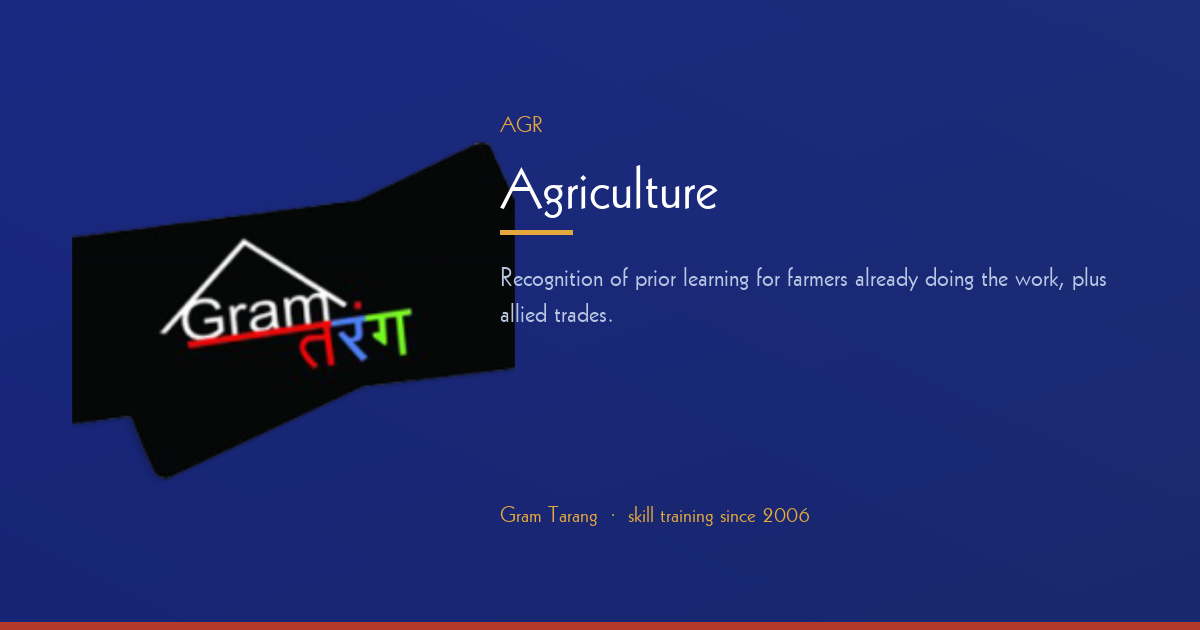
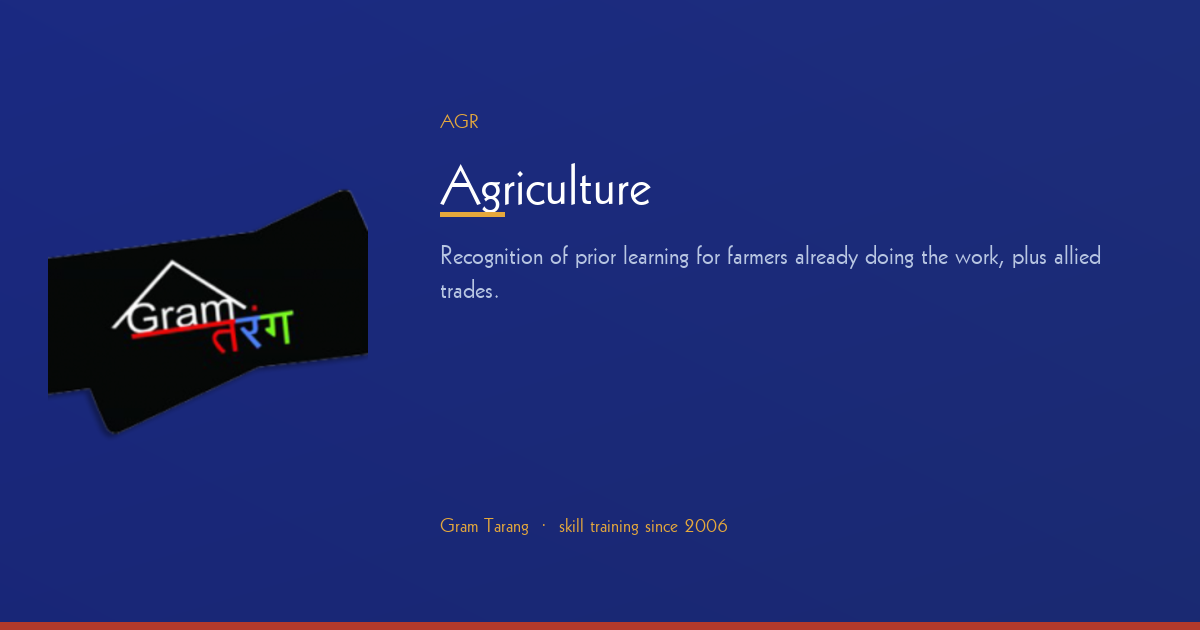
fix

Changed region(s): [[0.0308, 0.181, 0.925, 0.7841], [0.37, 0.8143, 0.6783, 0.8444]]

diff --git a/scripts/build-og.py b/scripts/build-og.py
@@ -1,0 +1,159 @@
+#!/usr/bin/env python3
+"""Compose Open Graph cards from the real Gram Tarang mark.
+
+The mark is a tilted badge, so its bounding box is much wider than the
+type beside it. This script keeps a hard two-column grid: logo on the
+left, copy on the right, with a fixed gap so they never overlap.
+"""
+
+from pathlib import Path
+from PIL import Image, ImageDraw, ImageFont
+
+ROOT = Path(__file__).resolve().parents[1]
+PUBLIC = ROOT / "public"
+APP = ROOT / "app"
+FONT = str(PUBLIC / "fonts/Geo231Rm.ttf")
+
+W, H = 1200, 630
+PAD = 48
+GAP = 72
+LOGO_MAX_W = 320
+LOGO_MAX_H = 280
+
+INDIGO = (20, 32, 74)
+INDIGO_DEEP = (12, 18, 42)
+WHITE = (255, 255, 255)
+MIST = (184, 198, 226)
+TURMERIC = (229, 168, 60)
+MADDER = (178, 58, 43)
+
+SECTORS = [
+    ("manufacturing", "MFG", "Manufacturing",
+     "Machining, fitting and electrical trades taught on production machines, not mock-ups."),
+    ("apparel-textiles", "APP", "Apparel & textiles",
+     "A three-month residential route into the garment export industry, with an employment assurance."),
+    ("automotive", "AUT", "Automotive",
+     "Service technicians for dealerships and fleets, built with the manufacturers themselves."),
+    ("retail-hospitality", "RET", "Retail & hospitality",
+     "Café and quick-service roles, including the brewmaster line built with Café Coffee Day."),
+    ("healthcare", "HLT", "Healthcare",
+     "Diagnostic and theatre technician roles for district hospitals and labs."),
+    ("agriculture", "AGR", "Agriculture",
+     "Recognition of prior learning for farmers already doing the work, plus allied trades."),
+    ("bfsi", "BFS", "Banking & financial services",
+     "Sales and service roles for banks, insurers and micro-finance lenders."),
+    ("beauty-wellness", "BWL", "Beauty & wellness",
+     "Our newest vertical, opened in 2024-25, and almost entirely taken up by women."),
+]
+
+
+def load_logo() -> Image.Image:
+    mark = Image.open(PUBLIC / "images/logo-mark.png").convert("RGBA")
+    mark = mark.crop(mark.getbbox())
+    scale = min(LOGO_MAX_W / mark.width, LOGO_MAX_H / mark.height)
+    size = (round(mark.width * scale), round(mark.height * scale))
+    return mark.resize(size, Image.Resampling.LANCZOS)
+
+
+def wash() -> Image.Image:
+    canvas = Image.new("RGB", (W, H), INDIGO)
+    px = canvas.load()
+    for x in range(W):
+        t = x / (W - 1)
+        for y in range(H):
+            v = 1 - (y / (H - 1)) * 0.08
+            r = int((INDIGO_DEEP[0] * (1 - t * 0.25) + INDIGO[0] * (0.75 + t * 0.25)) * v)
+            g = int((INDIGO_DEEP[1] * (1 - t * 0.25) + INDIGO[1] * (0.75 + t * 0.25)) * v)
+            b = int((INDIGO_DEEP[2] * (1 - t * 0.15) + 88) * v)
+            px[x, y] = (r, g, min(255, b))
+    return canvas
+
+
+def wrap(draw: ImageDraw.ImageDraw, text: str, font: ImageFont.FreeTypeFont, max_w: int, limit: int = 4):
+    words = text.split()
+    lines, cur = [], ""
+    for word in words:
+        trial = f"{cur} {word}".strip()
+        if draw.textlength(trial, font=font) <= max_w:
+            cur = trial
+        else:
+            if cur:
+                lines.append(cur)
+            cur = word
+    if cur:
+        lines.append(cur)
+    return lines[:limit]
+
+
+def layout_text_box(logo: Image.Image) -> tuple[int, int]:
+    text_x = PAD + logo.width + GAP
+    text_w = W - text_x - PAD
+    return text_x, text_w
+
+
+def compose(logo: Image.Image, draw_copy) -> Image.Image:
+    canvas = wash()
+    canvas.paste(logo, (PAD, (H - logo.height) // 2), logo)
+    draw = ImageDraw.Draw(canvas)
+    text_x, text_w = layout_text_box(logo)
+    draw_copy(draw, text_x, text_w)
+    draw.rectangle([0, H - 8, W, H], fill=MADDER)
+    return canvas
+
+
+def save(image: Image.Image, path: Path) -> None:
+    path.parent.mkdir(parents=True, exist_ok=True)
+    image.save(path, "PNG", optimize=True)
+    print(f"{path.relative_to(ROOT)}  {image.size[0]}x{image.size[1]}")
+
+
+def main() -> None:
+    logo = load_logo()
+
+    code_f = ImageFont.truetype(FONT, 20)
+    title_f = ImageFont.truetype(FONT, 56)
+    lede_f = ImageFont.truetype(FONT, 26)
+    small_f = ImageFont.truetype(FONT, 20)
+    kicker_f = ImageFont.truetype(FONT, 22)
+
+    def home_copy(draw, x, max_w):
+        y = 108
+        for line in wrap(draw, "GRAM TARANG", title_f, max_w, 2):
+            draw.text((x, y), line, font=title_f, fill=WHITE)
+            y += 64
+        draw.rectangle([x, y + 4, x + 64, y + 8], fill=TURMERIC)
+        y += 28
+        draw.text((x, y), "Employability Training Services", font=kicker_f, fill=MIST)
+        y += 52
+        for line in wrap(draw, "Skills that hold where jobs don't reach.", lede_f, max_w, 3):
+            draw.text((x, y), line, font=lede_f, fill=WHITE)
+            y += 36
+        draw.text((x, 478), "Vocational skill training  ·  Placement", font=small_f, fill=MIST)
+        draw.text((x, 512), "Odisha  ·  since 2006", font=small_f, fill=TURMERIC)
+
+    home = compose(logo, home_copy)
+    save(home, PUBLIC / "og.png")
+    save(home, APP / "opengraph-image.png")
+    save(home, APP / "twitter-image.png")
+
+    for slug, code, name, blurb in SECTORS:
+        def sector_copy(draw, x, max_w, code=code, name=name, blurb=blurb):
+            y = 108
+            draw.text((x, y), code, font=code_f, fill=TURMERIC)
+            y = 148
+            title_lines = wrap(draw, name, title_f, max_w, 3)
+            for line in title_lines:
+                draw.text((x, y), line, font=title_f, fill=WHITE)
+                y += 62
+            draw.rectangle([x, y + 2, x + 64, y + 6], fill=TURMERIC)
+            y += 28
+            for line in wrap(draw, blurb, lede_f, max_w, 4):
+                draw.text((x, y), line, font=lede_f, fill=MIST)
+                y += 34
+            draw.text((x, 512), "Gram Tarang  ·  skill training since 2006", font=small_f, fill=TURMERIC)
+
+        save(compose(logo, sector_copy), PUBLIC / "og" / "sectors" / f"{slug}.png")
+
+
+if __name__ == "__main__":
+    main()
